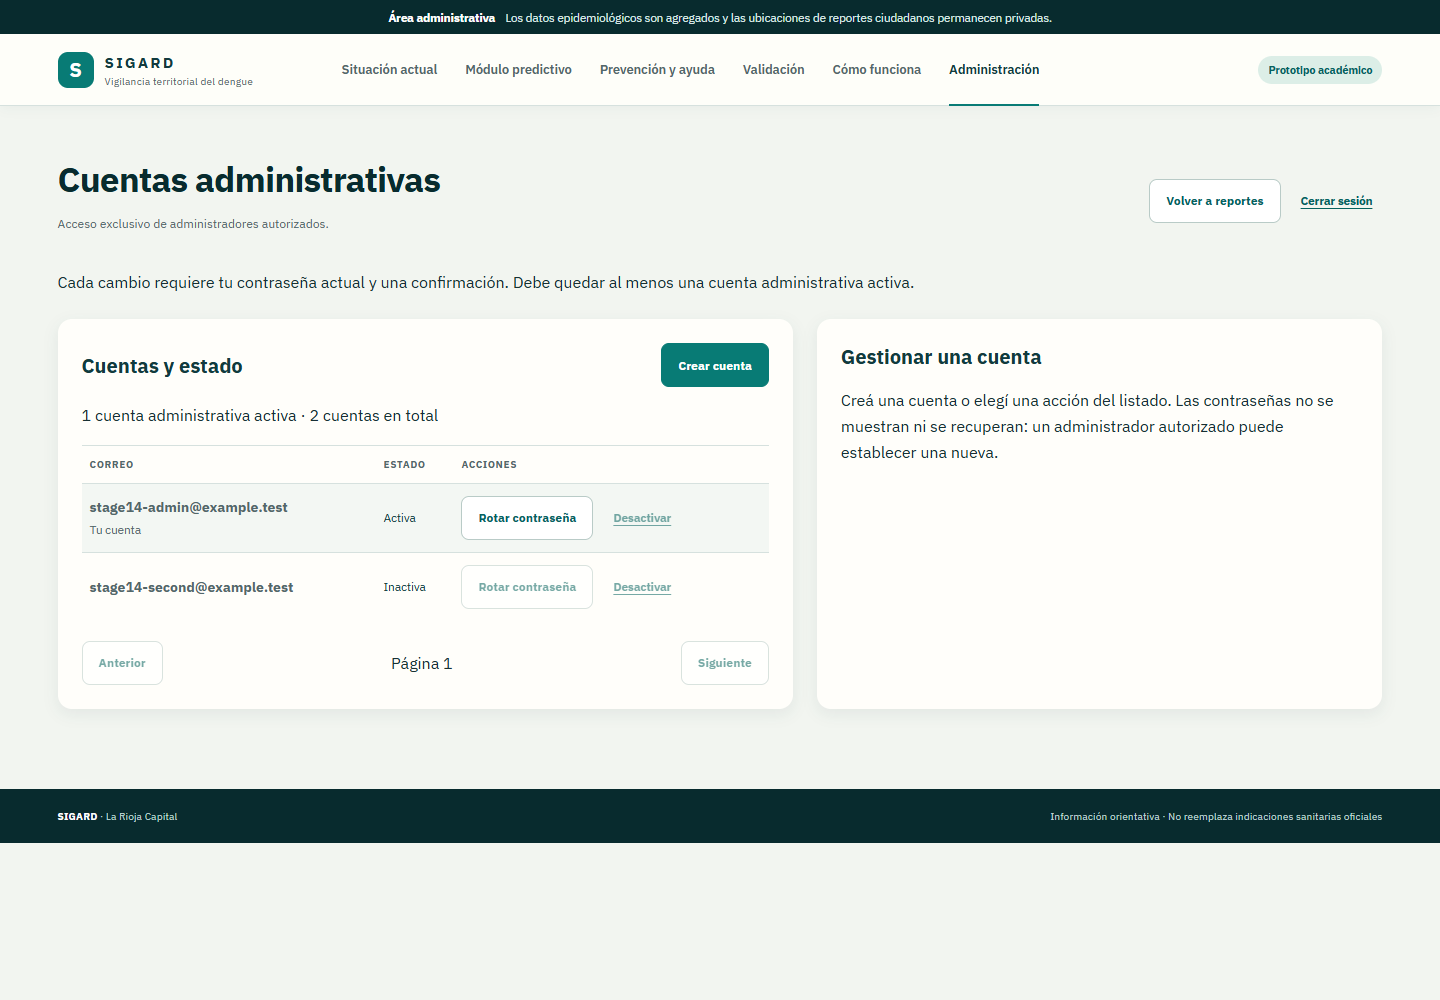
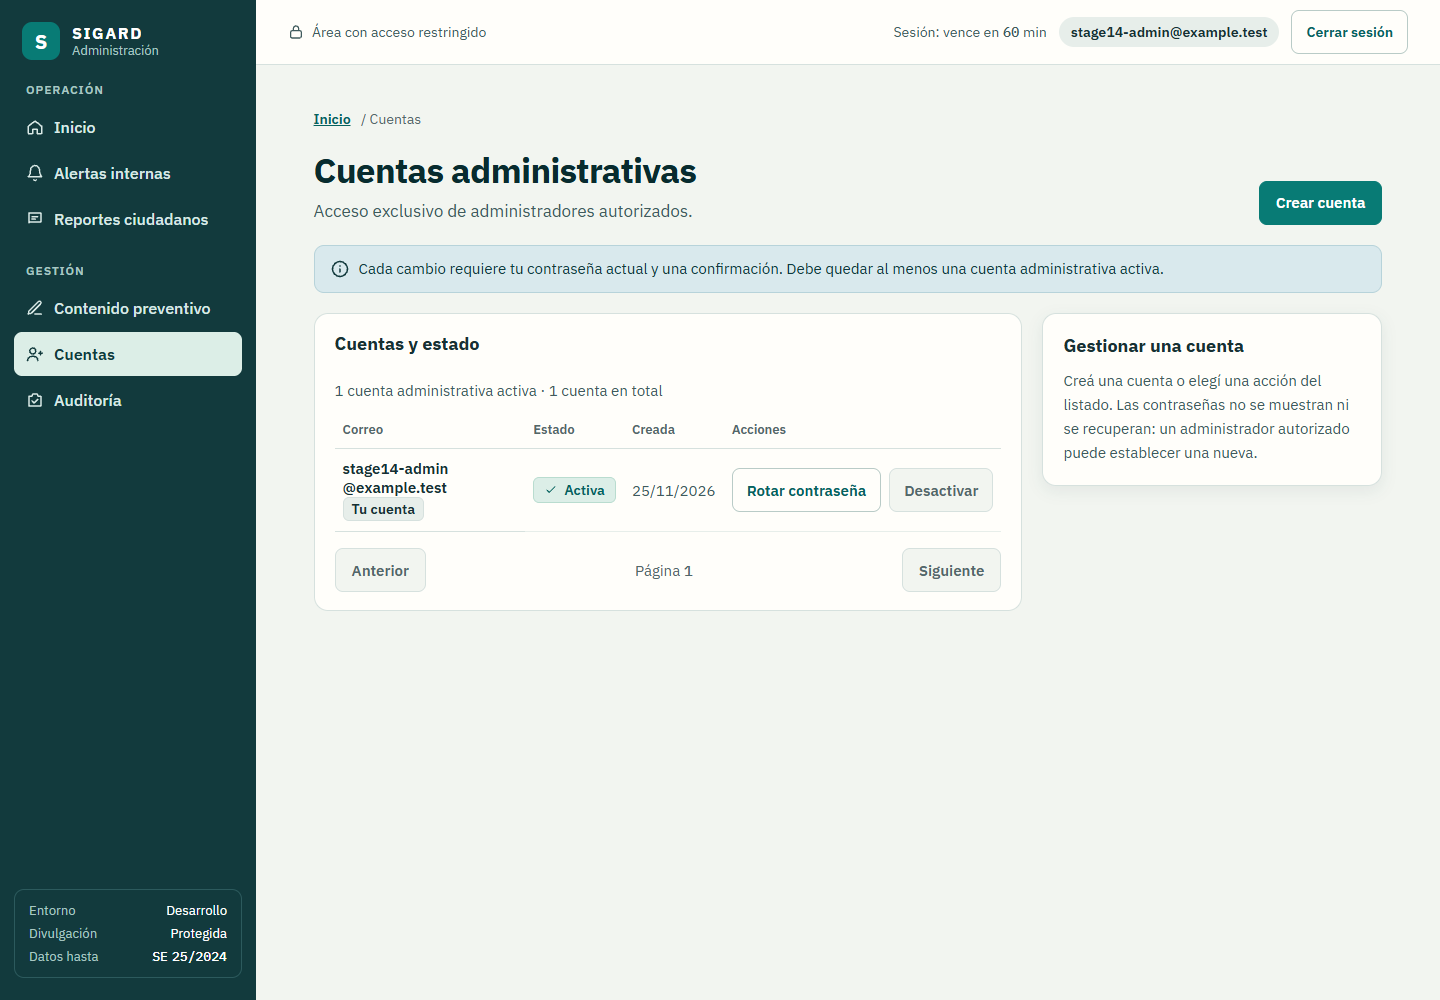
docs(manuales): capturas regeneradas con las pantallas actuales y datos ficticios (F7b)
16 imágenes reemplazadas y 2 nuevas (Inicio, Auditoría), tomadas de corridas
con fixtures ficticias (cuentas @example.test, radios 999…/FX…/FICT-…, reportes
de prueba), visor en modo protegido. Ninguna proviene de corridas --real.
Se quita el aviso viejo de Auditoría «Próximamente» y se referencia la vista móvil
de Actividad registrada.

diff --git a/docs/manuales/manual-administrador.md b/docs/manuales/manual-administrador.md
@@ -1,10 +1,11 @@
 # Manual del administrador
 
 SIGARD · Vigilancia territorial del dengue · La Rioja Capital
-Versión del prototipo: `v0.9.1-aceptacion` (noviembre de 2026)
+Versión del prototipo: `v1.0.0` (noviembre de 2026)
 
 > Todas las imágenes se tomaron con **datos ficticios** (cuentas `@example.test`, radios y
-> reportes de prueba) y, en el visor, en **modo protegido**. No muestran datos reales.
+> reportes de prueba) y, en el visor, en **modo protegido**. No muestran datos reales. Se
+> regeneraron en F7b (25/11/2026) con las pantallas del diseño v2 de Administración.
 
 Este manual es para el personal autorizado que usa el área **Administración**. Para instalar y
 levantar el sistema, ver el [manual de instalación](manual-instalacion.md).
@@ -43,6 +44,8 @@ concreta (por ejemplo `/admin/reportes` o un enlace del visor), después del ing
 
 ### Inicio
 
+![Inicio con pendientes y estado del sistema (datos ficticios)](img/admin-inicio.png)
+
 **Inicio** (`/admin/inicio`) resume lo que requiere una decisión y el estado del sistema. Lleva la
 etiqueta «Prototipo experimental — reconstrucción histórica, no uso operativo».
 
@@ -59,8 +62,6 @@ etiqueta «Prototipo experimental — reconstrucción histórica, no uso operati
   Contenido) y **Revisar**. Muestra los 10 más antiguos; el resto está en cada sección.
 - **Accesos rápidos**: visor en la última semana evaluable, reglas de alerta, exportación de
   reportes y nueva sección preventiva (llevan a la sección correspondiente).
-
-**Auditoría** todavía no tiene pantalla propia y muestra «Próximamente».
 
 ## 2. Cuentas administrativas
 
@@ -329,6 +330,8 @@ su fecha. La pestaña **Cómo funciona** resume el circuito para quien lo usa po
   estado «publicada», y el intento de publicar se rechaza y queda auditado.
 
 ## 7. Auditoría
+
+![Registro de auditoría con eventos ficticios](img/admin-auditoria.png)
 
 En **Auditoría** (`/admin/auditoria`) se consulta, sólo para leer, quién hizo qué y cuándo:
 

diff --git a/docs/manuales/manual-ciudadano.md b/docs/manuales/manual-ciudadano.md
@@ -1,10 +1,11 @@
 # Manual de uso para la ciudadanía
 
 SIGARD · Vigilancia territorial del dengue · La Rioja Capital
-Versión del prototipo: `v0.9.1-aceptacion` (noviembre de 2026)
+Versión del prototipo: `v1.0.0` (noviembre de 2026)
 
 > Las imágenes de este manual se tomaron con **datos ficticios de prueba**. No muestran casos
-> reales ni la situación sanitaria de la ciudad.
+> reales ni la situación sanitaria de la ciudad. Se actualizaron el 25/11/2026 con las pantallas
+> vigentes.
 
 ## 1. ¿Qué es SIGARD?
 
@@ -106,6 +107,8 @@ del reporte.
 ## 6. Actividad registrada (datos históricos)
 
 ![Vista «Actividad registrada» con datos ficticios](img/ciudadano-actividad.png)
+
+![La misma vista en el celular (datos ficticios)](img/ciudadano-actividad-movil.png)
 
 Esta sección muestra **cuánta actividad de dengue se registró en años anteriores**, por radio
 censal. Un radio censal es una zona pequeña de la ciudad que usa el censo. Sólo aparece en el
